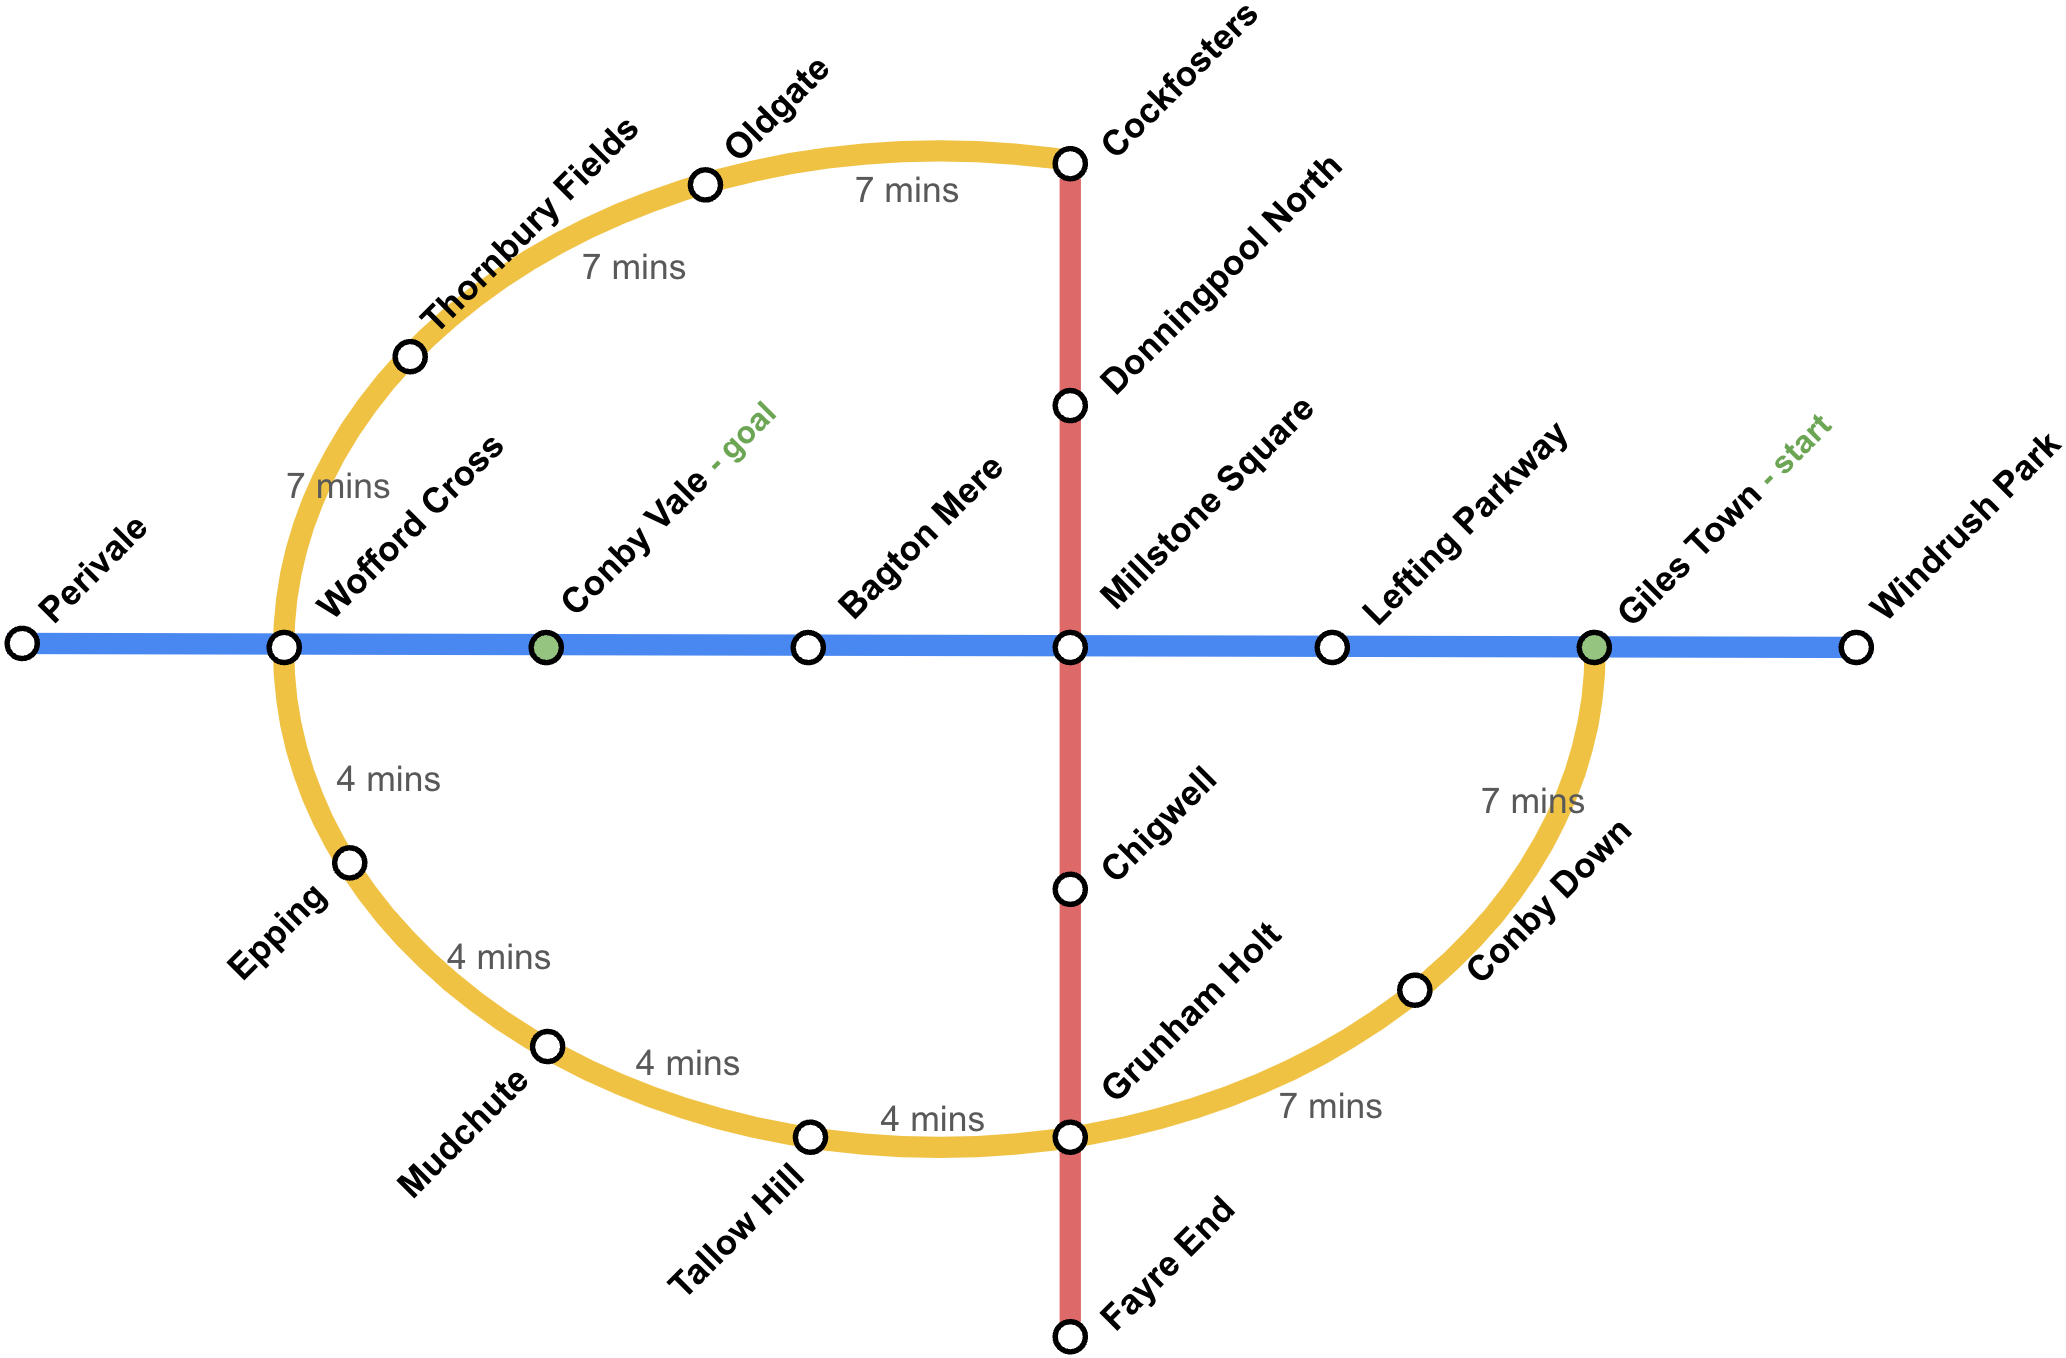
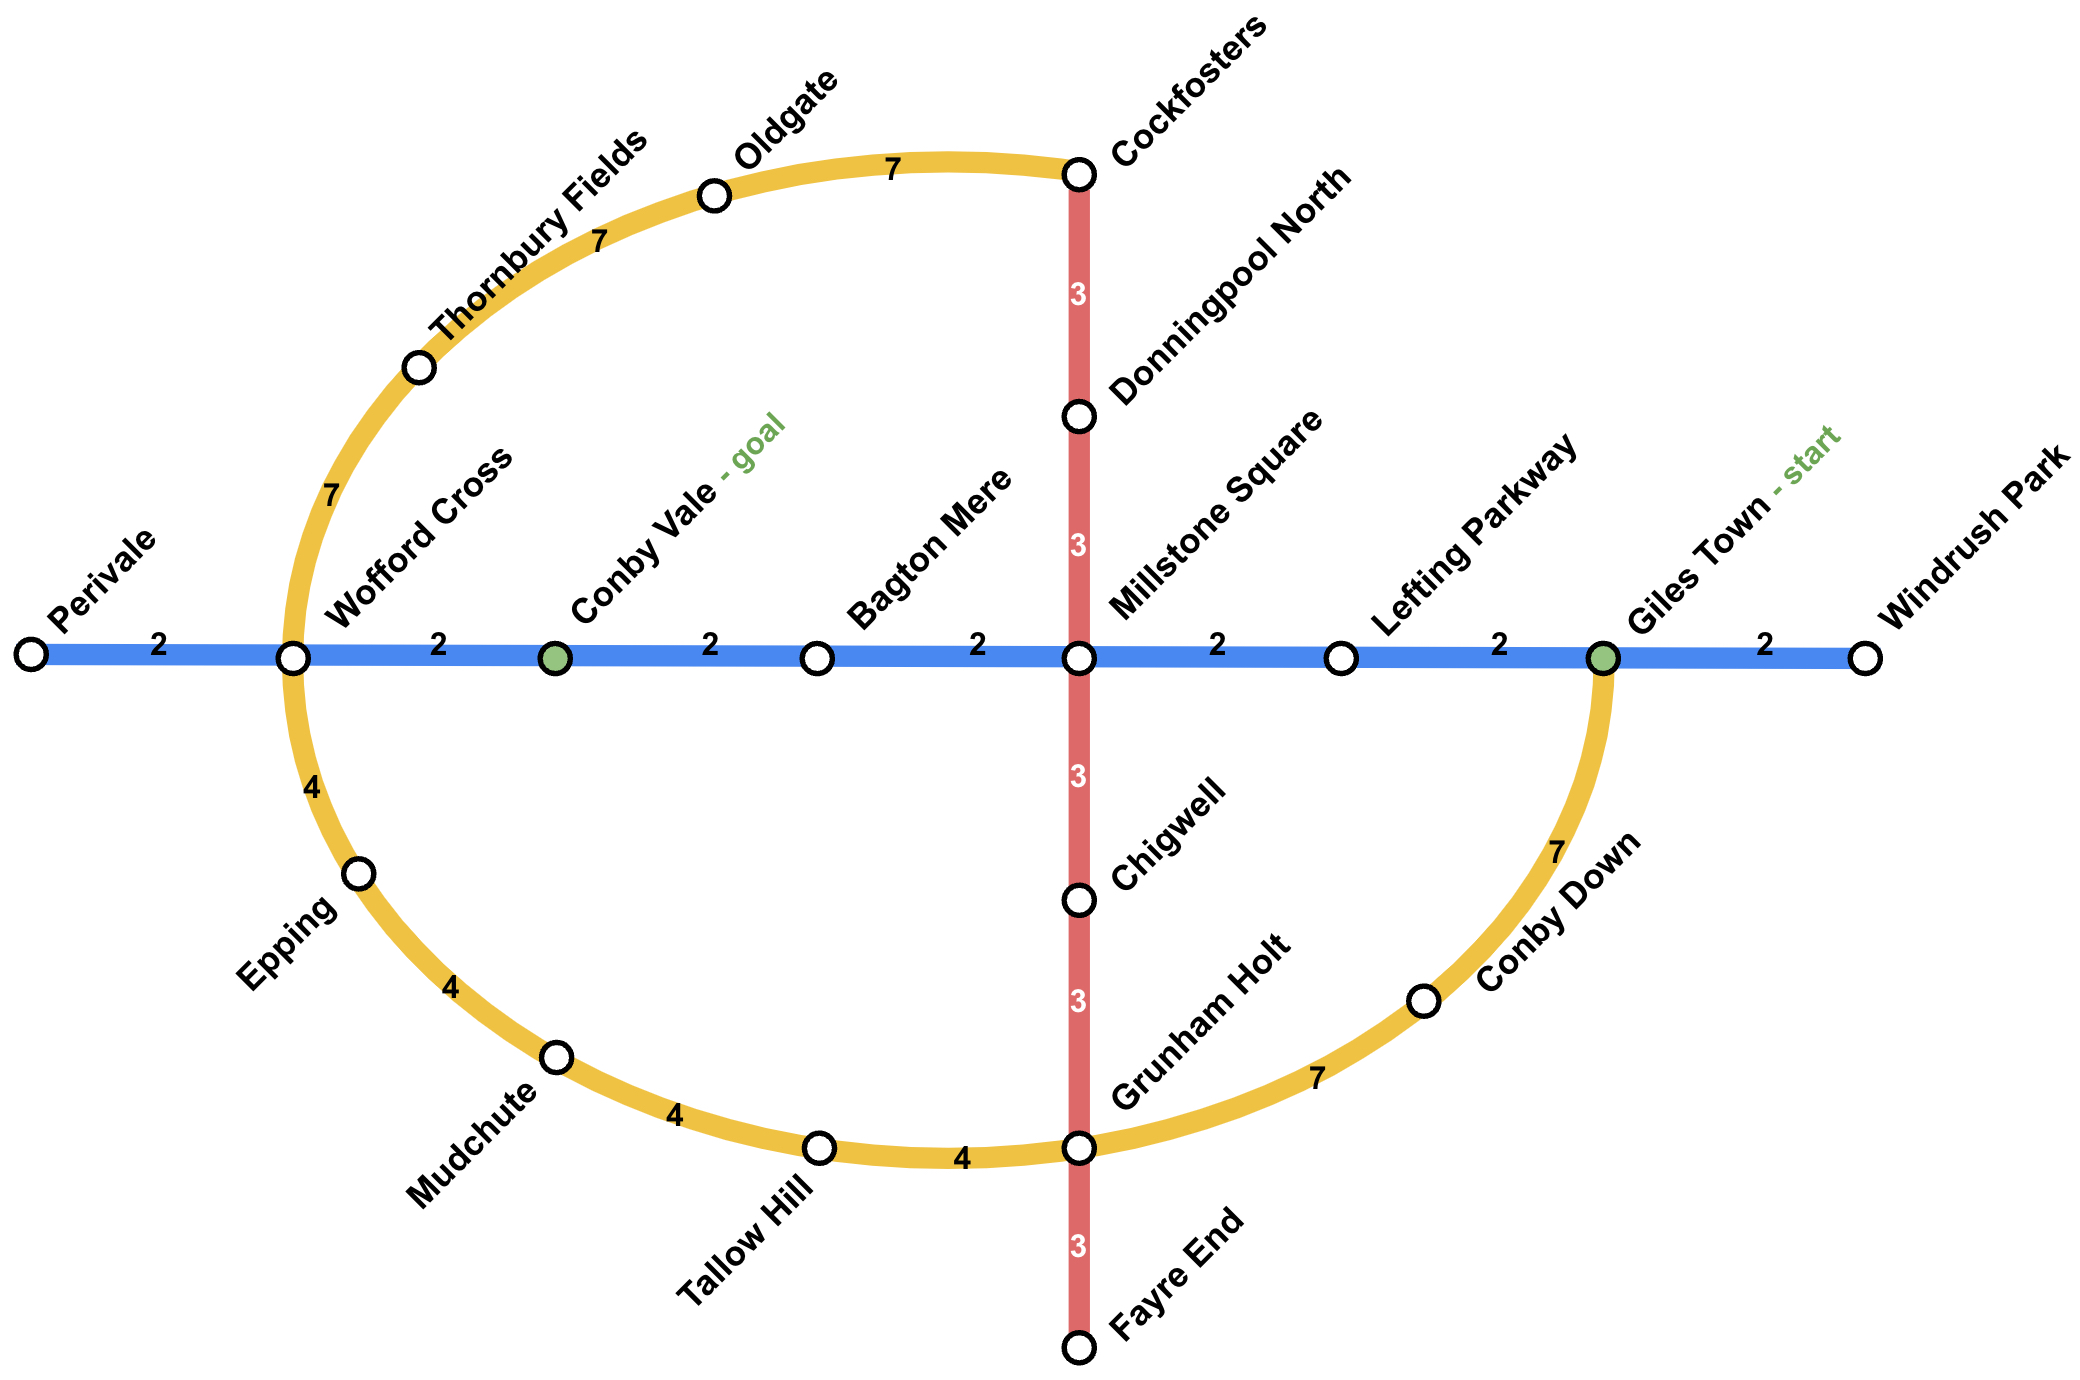
It is made even simplier.

diff --git a/templates/intro.html b/templates/intro.html
@@ -38,11 +38,11 @@
     <!-- and the remaining time to make a decision. <br> -->
     The current station and clock time will update based on your action choice. <br>    
 </p>
-Goal Station:   ***
+Goal Station:   Conby Vale
 <br><br>
 
 <div>
-    Current station: <span style="border: 1px solid #000; padding: 5px; padding-left: 3%;padding-right: 3%;border-radius: 3px;">***</span>
+    Current station: <span style="border: 1px solid #000; padding: 5px; padding-left: 3%;padding-right: 3%;border-radius: 3px;">Giles Town</span>
 </div>
 <br>
 <div>
@@ -60,11 +60,12 @@ Goal Station:   ***
 {% block left_block %}
 <p class="t_note">
 
-    A metro map with time information will be provided here to help you plan your trip. 
-    Use it to calculate the route duration and select the one that ensures you arrive at your destination on time. <br> <br>
-    Note: The map here is for illustrative purposes only. 
+    A metro map with time information is provided here to help you plan your trip. 
+    Use it to calculate the route duration, and select the one that ensures you arrive at your destination on time. 
+    <!-- <br> <br> -->
+    <!-- Note: The map here is for illustrative purposes only. 
     A different one will be used in the actual task.
-    Also, transfer times between different metro lines are not considered in this task. 
+    Also, transfer times between different metro lines are not considered in this task.  -->
 
 </p>
 <p class="t_map">    
@@ -73,13 +74,14 @@ Each Blue Line station is 2 minutes apart. <br>
 
 Each Red Line station is 3 minutes apart.<br>
 
-...
+Each Yellow Line station is 4 or 7 minutes apart.<br>
+All are marked on the map as well.
 </p>
 
 
 <br>
 <div class="container">
-    <img src="{{ url_for('static', filename='img/map_intro.jpg') }}" alt="Example Image" style="width: 80%;">
+    <img src="{{ url_for('static', filename='img/map.jpg') }}" alt="Example Image" style="width: 80%;">
 </div>
 
 {% endblock %}
